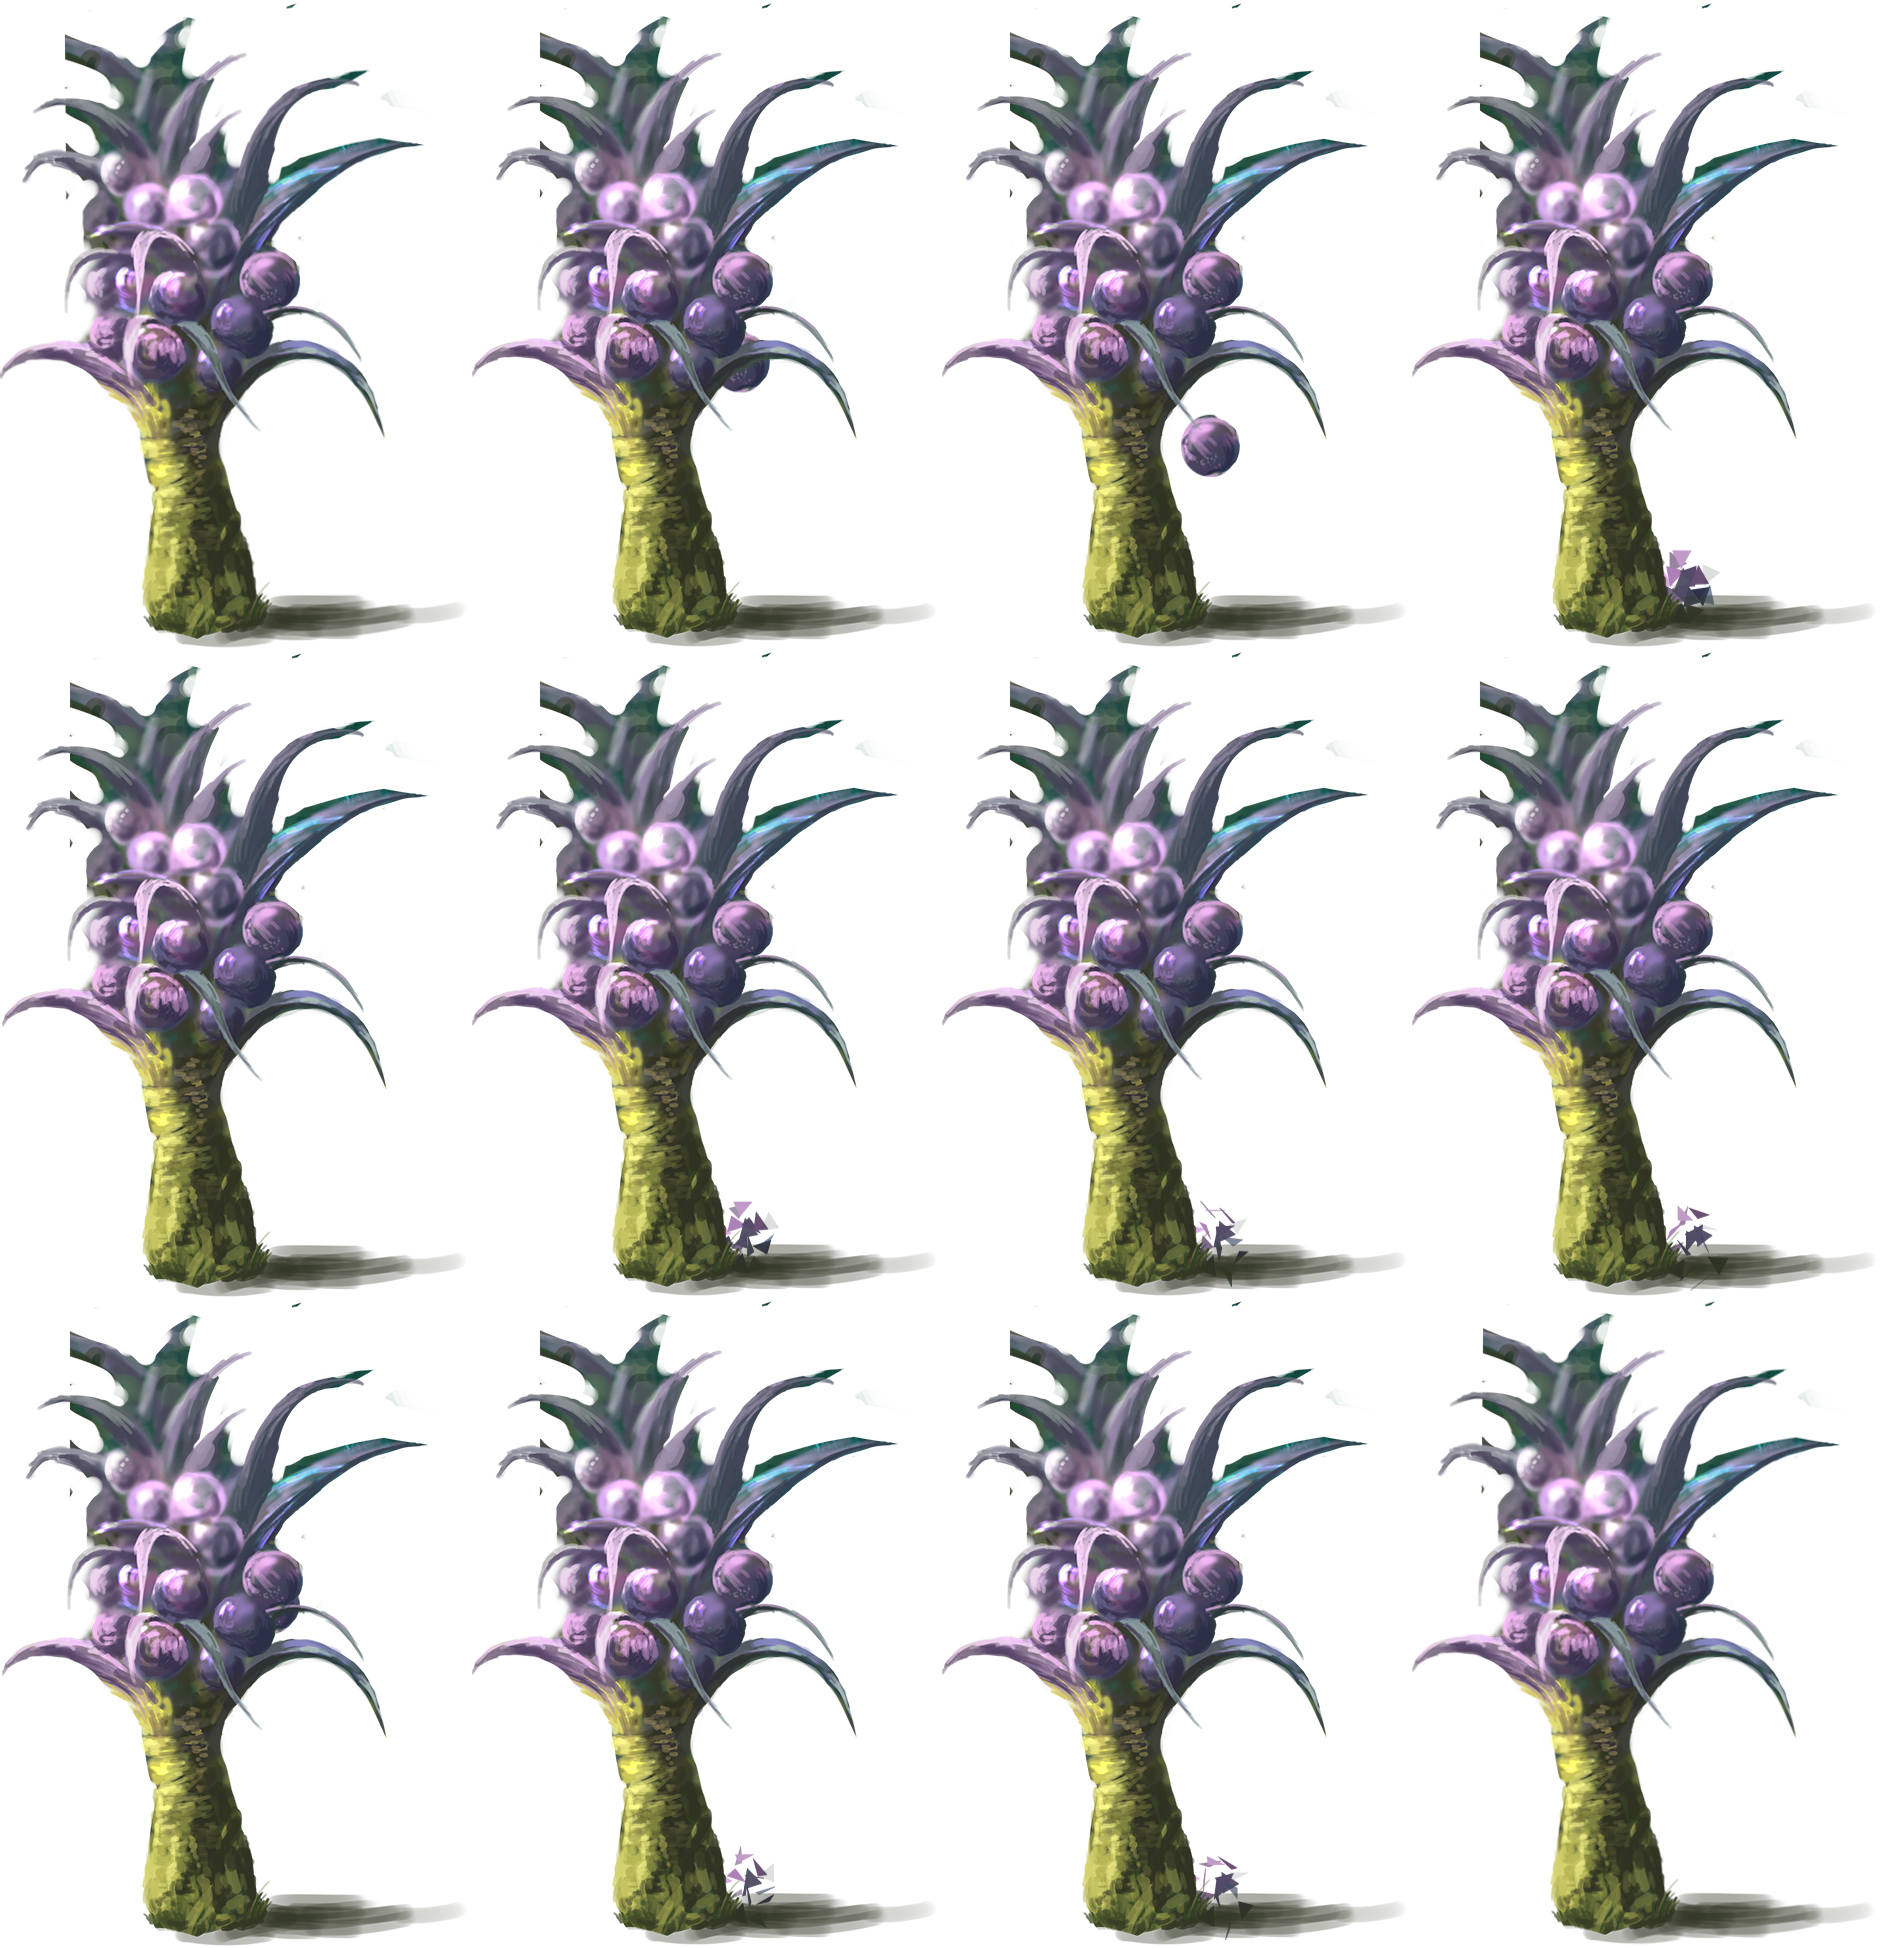
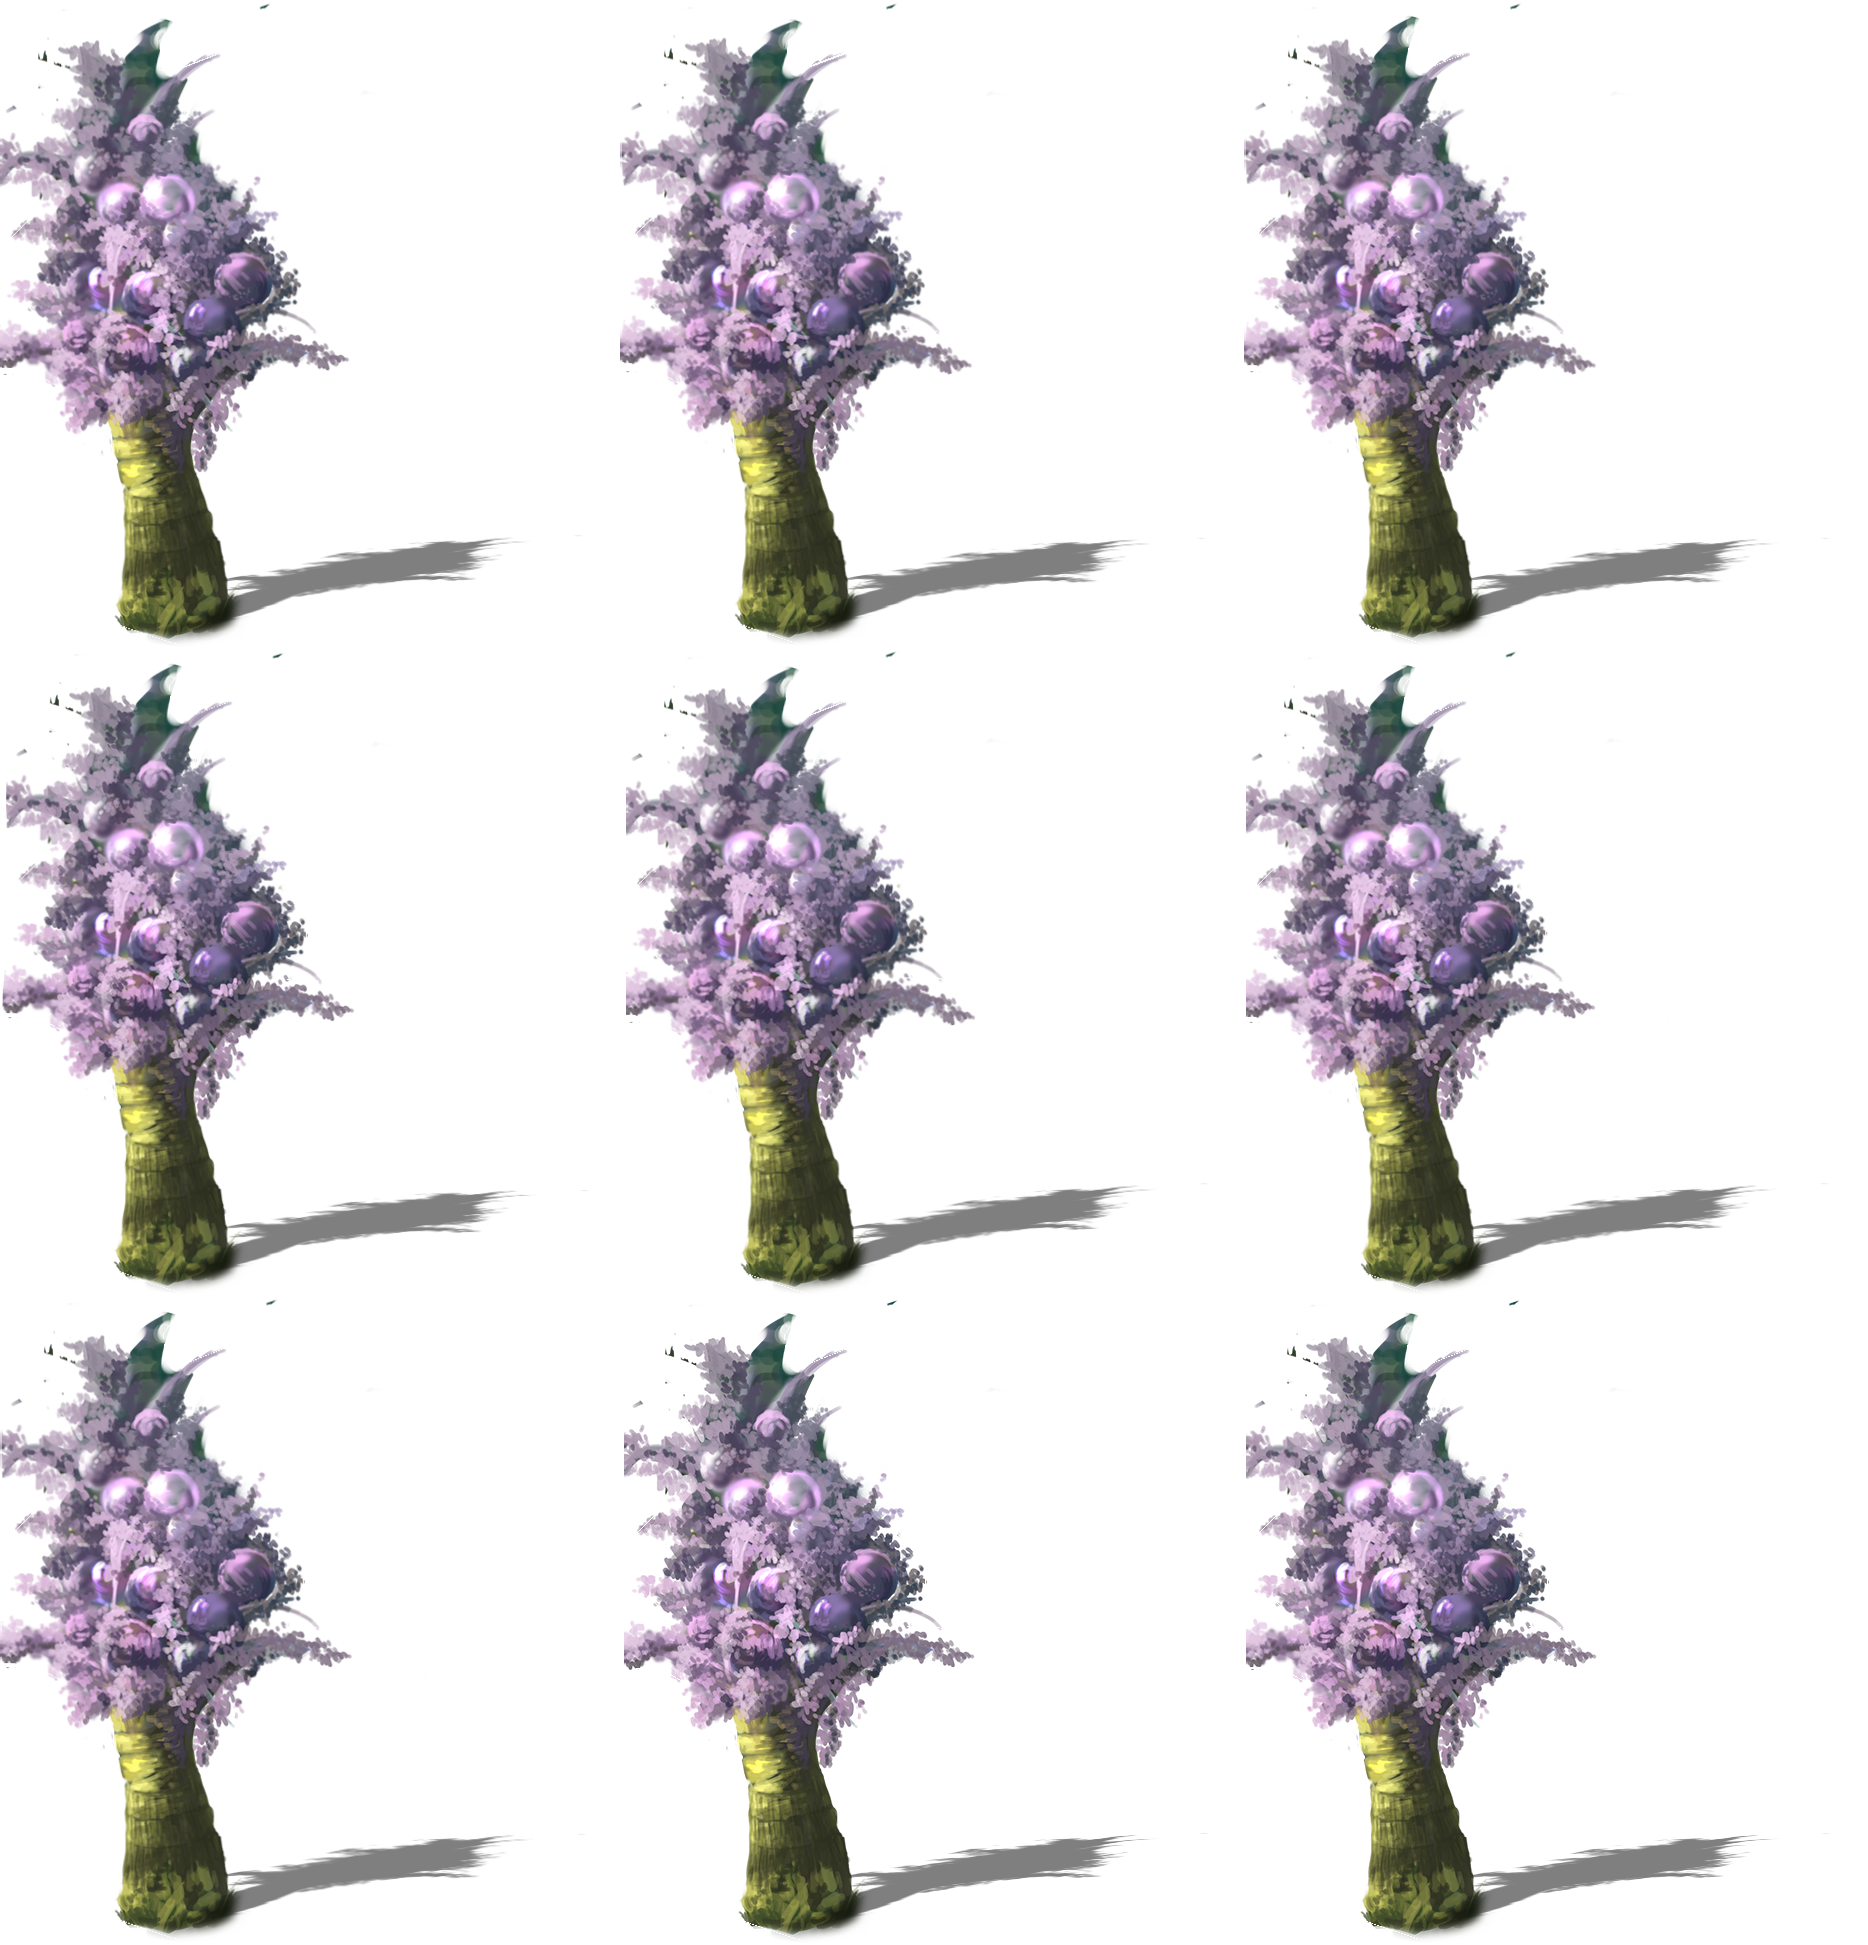
add HomeTree

diff --git a/javascript/math_game/js/HomeMenu.js b/javascript/math_game/js/HomeMenu.js
@@ -367,6 +367,22 @@ demo.HomeMenu.prototype = {
 
         }        
         */
+        
+        HomeTreeFrame1 = game.add.sprite(-10,100, 'HomePageTreeSheet','HomeTree_00001.png');
+        HomeTreeFrame1.alpha = 1;
+        
+        HomeTreeBtn = game.add.sprite(40,250, 'HomeTreeHover');
+        //HomeTreeBtn.events.onInputDown.add(HomeTreeBtnDown, this);
+        HomeTreeBtn.events.onInputOver.add(HomeTreeBtnOver, this);
+        HomeTreeBtn.events.onInputOut.add(HomeTreeBtnOut, this);
+        HomeTreeBtn.events.onInputUp.add(HomeTreeBtnUp, this);
+        HomeTreeBtn.inputEnabled = false; 
+        HomeTreeBtn.alpha = 0; 
+        
+        
+        HomeTreeAnimate = game.add.sprite(-10,100,'HomePageTreeSheet');
+        HomeTreeAnimate.animations.add("HomeTreeDynamic",Phaser.Animation.generateFrameNames('HomeTree_',0,8,'.png',5),10,true);
+        HomeTreeAnimate.alpha = 0;        
         //FoxDynamic----------------------------------------------------------------------------------------------------------------------
         
         FoxStanding = game.add.sprite(0,100,'FoxStanding');
@@ -409,16 +425,7 @@ demo.HomeMenu.prototype = {
         
         //animation----------------------------------------------------------------------------------------------------------------------
         
-        HomeTreeFrame1 = game.add.button(1,159, 'HomeTreeFrame1', HomePageTree);
-        HomeTreeFrame1.onInputOver.add(HomeTreeBtnOver, this);
-        HomeTreeFrame1.onInputOut.add(HomeTreeBtnOut, this);
-        HomeTreeFrame1.onInputUp.add(HomeTreeBtnUp, this);
-        HomeTreeFrame1.inputEnabled = false; 
-        HomeTreeFrame1.alpha = 1;
-        
-        HomeTreeAnimate = game.add.sprite(0,100,'HomePageTreeSheet');
-        HomeTreeAnimate.animations.add("HomeTreeDynamic",Phaser.Animation.generateFrameNames('HomeTree_',0,14,'.png',5),10,true);
-        HomeTreeAnimate.alpha = 0;
+
         
         grass = game.add.sprite(0,100,'grass');
         
@@ -445,7 +452,7 @@ demo.HomeMenu.prototype = {
             DoorBtn.inputEnabled = true;
             HomeMailBtn.inputEnabled = true;
             SettingBtnSheet.inputEnabled = true;
-            //HomeTreeFrame1.inputEnabled = true; 
+            HomeTreeBtn.inputEnabled = true; 
             FoxStandingHover.inputEnabled = true;            
             /*
             if(FromInside == true){
@@ -485,9 +492,7 @@ function FoxStandingOut(){
 
 }
 
-function HomePageTree(){
-    
-}
+
 function HomeTreeBtnUp(){
      
     HomeTreeFrame1.alpha = 0;
@@ -499,8 +504,8 @@ function HomeTreeBtnUp(){
     }, this);
 }
 function HomeTreeBtnOver(){
-    ArrowSheet.x = -600;
-    ArrowSheet.y = -160;
+    ArrowSheet.x = -700;
+    ArrowSheet.y = -200;
     ArrowSheet.animations.play("ArrowSheetDynamic",15,true);
     ArrowSheet.alpha = 1;
     game.add.tween(HomeTreeText).to({y:150},500,'Quad.easeOut',true,0); 

diff --git a/javascript/math_game/js/LoadingHomeMenu.js b/javascript/math_game/js/LoadingHomeMenu.js
@@ -47,6 +47,8 @@ demo.LoadingHomeMenu.prototype = {
         game.load.atlas('ArrowSheet', 'javascript/math_game/assets/HomePage/ArrowSheet.png', 'javascript/math_game/assets/HomePage/ArrowSheet.json');  
         
         game.load.image('RoadHover', 'javascript/math_game/assets/HomePage/RoadHover.png');
+        game.load.image('HomeTreeHover', 'javascript/math_game/assets/HomePage/HomeTreeHover.jpg');
+        
         
         //Text----------------------------------------------------------------------------------------------------------------------------
         game.load.image('FoxHomeText','javascript/math_game/assets/HomePage/FoxHomeText.jpg');
